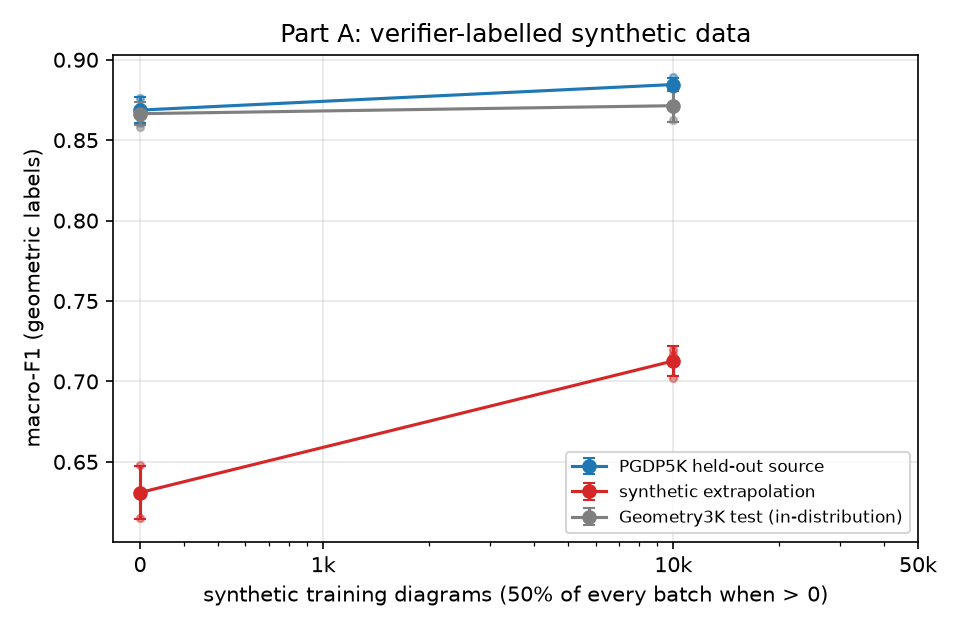
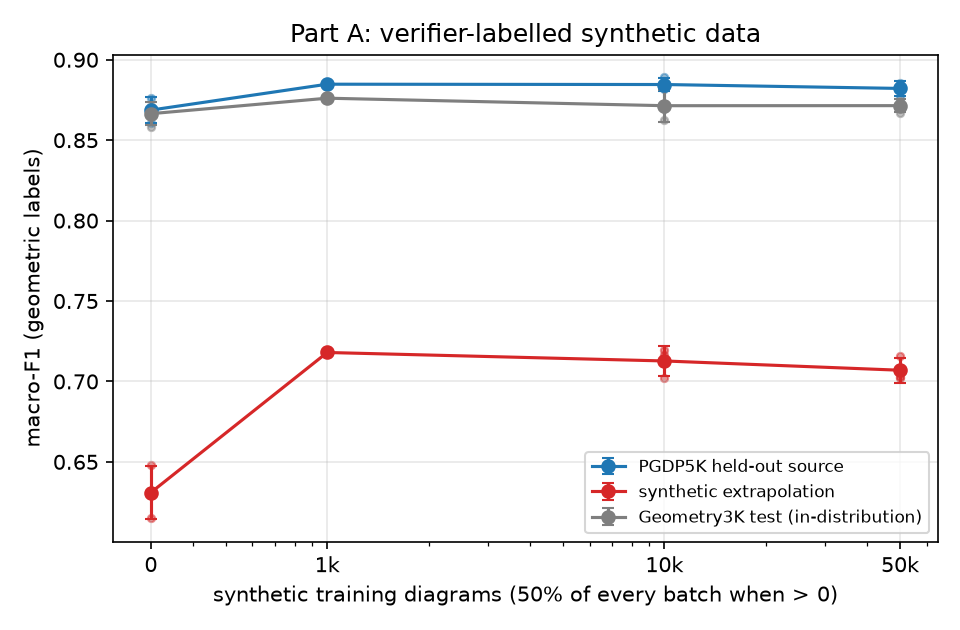
Phase 7 complete: Colab batch (13 runs) imported, all results tables and the scaling figure regenerated
- Part A: the synthetic gain is reached by 1k diagrams and flat to 50k
- 7.5 DINOv2-L above DINOv3-L by ~0.05 (one seed); 7.8 no overlay falls below the linear probe
- Part B: consistency filter raises pseudo-label precision 0.882 -> 0.898, but a no-pseudo-label
  control beats both students: the gain over the teacher is the extra training
- plan 7.4-7.12 ticked; COLAB_GUIDE.md corrected (queue log location, caffeinate -ims)

diff --git a/GEOMETRY_RELATIONS_PLAN.md b/GEOMETRY_RELATIONS_PLAN.md
@@ -222,24 +222,24 @@ Core (must):
 - [x] 7.1 Linear probe, 3 seeds, train on Geometry3K train only. *(Done 2026-10-12, lab: geometric macro-F1 geometry3k_test 0.595 ± 0.013, pgdp5k_heldout 0.517 ± 0.003.)*
 - [x] 7.2 Full fine-tune, 3 seeds, train on Geometry3K train only. *(Done 2026-10-12, lab, LP-FT 2 x 40k images: 0.867 ± 0.007 / 0.869 ± 0.008.)*
 - [x] 7.3 Full fine-tune, 3 seeds, train on Geometry3K train + synth_train 10k. *(Done 2026-10-12, lab: 0.871 ± 0.010 / 0.885 ± 0.004; synth_extrap 0.713 ± 0.009 vs 0.631 ± 0.017. Teacher for Part B: seed 2, best val.)*
-- [ ] 7.4 Evaluate every checkpoint on the three test sets plus the not-to-scale subset, against both label sets. *(Every run evaluates all units against both label sets at its end; `python -m analysis.phase7` adds the not-to-scale subset (7 diagrams, 353 queries, geometry3k_test + pgdp5k_heldout pooled) → `reports/tables/not_to_scale_eval.csv`, and the summary tables. Ticked when the Colab runs are in.)*
+- [x] 7.4 Evaluate every checkpoint on the three test sets plus the not-to-scale subset, against both label sets. *(Every run evaluates all units against both label sets at its end; `python -m analysis.phase7` adds the not-to-scale subset (7 diagrams, 353 queries, geometry3k_test + pgdp5k_heldout pooled) → `reports/tables/not_to_scale_eval.csv`, and the summary tables. Done 2026-10-13 for all 24 runs: `reports/tables/phase7_summary.md`. Not-to-scale geometric macro-F1 is close to the full test sets (fine-tune 0.859, + 10k synthetic 0.874), but 7 diagrams support no claim.)*
 
 Ablations (cheap, one seed each):
 
-- [ ] 7.5 Backbone: DINOv2-L vs DINOv3-L (same config).
+- [x] 7.5 Backbone: DINOv2-L vs DINOv3-L (same config). *(Done 2026-10-13, Colab, seed 0: DINOv2-L 0.913 / 0.920 / 0.754 (geometry3k_test / pgdp5k_heldout / synth_extrap) vs DINOv3-L 0.867 ± 0.007 / 0.869 ± 0.008 / 0.631 ± 0.017. DINOv2 is better by ~0.05 at this budget; one seed. Note DINOv2/14 sees 1,024 patch tokens at 448 px vs 784 for DINOv3/16.)*
 - [x] 7.6 Resolution: 224 vs 448. *(Done 2026-10-12, lab, seed 0.)*
 - [x] 7.7 No augmentation vs full augmentation. *(Done 2026-10-12, lab, seed 0.)*
-- [ ] 7.8 Highlight overlay vs no overlay (query given only as a text token index — expected to fail, which shows the overlay is doing the work). *(Implemented 2026-10-13: `configs/ablation_nooverlay.yaml`; the query is the kind plus the point names as hashed token indices (`data/query_tokens.py`), projected to one vector that cross-attends over the CLS and patch tokens (`models.head.QueryAttention`), concatenated with the pooled feature; same budget, no LP stage (it needs the query encoder). Runs on Colab.)*
+- [x] 7.8 Highlight overlay vs no overlay (query given only as a text token index — expected to fail, which shows the overlay is doing the work). *(Implemented 2026-10-13: `configs/ablation_nooverlay.yaml`; the query is the kind plus the point names as hashed token indices (`data/query_tokens.py`), projected to one vector that cross-attends over the CLS and patch tokens (`models.head.QueryAttention`), concatenated with the pooled feature; same budget, no LP stage (it needs the query encoder). Done 2026-10-13, Colab, seed 0: 0.431 / 0.429 / 0.137, below even the linear probe with the overlay (0.595 / 0.517 / 0.185): the overlay does the work.)*
 
 Part A — verifier as unlimited labeller (must):
 
-- [ ] 7.9 Fine-tune on Geometry3K train + synth_train at 0, 1k, 10k, 50k. Three seeds at 0 and 50k, one seed in between. Plot held-out-source and extrapolation macro-F1 against synthetic size (`reports/figures/scaling.png`).
+- [x] 7.9 Fine-tune on Geometry3K train + synth_train at 0, 1k, 10k, 50k. Three seeds at 0 and 50k, one seed in between. Plot held-out-source and extrapolation macro-F1 against synthetic size (`reports/figures/scaling.png`). *(Done 2026-10-13 (0, 10k: lab, 3 seeds each; 1k: 1 seed and 50k: 3 seeds on Colab). pgdp5k_heldout 0.869 → 0.885 (1k) → 0.885 (10k) → 0.882 (50k); synth_extrap 0.631 → 0.718 → 0.713 → 0.707; geometry3k_test flat (0.867-0.876). The gain is reached by 1k diagrams and does not grow with more, at a fixed budget of 80k images with 50% synthetic.)*
 
 Part B — self-training on real unlabelled scans (if Part A done):
 
 - [x] 7.10 `verifier/consistency.py`: given a predicted relation set for a diagram, compute the deductive closure with rules: parallel transitivity; perpendicular ∘ parallel → perpendicular; equal_length transitivity; two segments both perpendicular to a third are parallel; a segment cannot be both parallel and perpendicular to the same segment. Return the set of contradictions and the closure size. *(Done 2026-10-13: union-find over parallel classes of carrier lines (sub-segments of one line are one entity), perpendicular edges between classes, equal_length classes; contradiction C1 = a pair both parallel and perpendicular after closure. C2 = a derived fact that the model confidently predicted false (`selftrain.consistency_negatives`, on). Measured on a 150-diagram sample of the pool with the real teacher (τ 0.9): C1 alone flags 1/150 diagrams (removes 1% of the confident entries), too few for the two filters to differ; C1 + C2 flags 13/150, removes 16% of the entries, and the removed pseudo-positives have precision 0.74 against 0.92 for the kept ones (confidence filter alone 0.89). Caveat: tolerance-based relations are not exactly transitive, so C2 also fires on 10.4% of the pool diagrams with the verifier's own labels (C1 on 0%).)*
-- [ ] 7.11 `experiments/selftrain.py`: teacher = best 7.3 model. Pseudo-label the PGPS9K pool from §0.2 #9 (d) (coordinates and labels unused). Two filters: (a) confidence > τ; (b) confidence > τ **and** diagram-level relation set has zero contradictions after closure. Retrain student from the 7.3 checkpoint on Geometry3K + filtered pseudo-labels, one round, 3 seeds each. Evaluate on all test sets. Post-hoc: unseal PGPS9K coordinates and report pseudo-label precision under each filter (this is the evidence that the consistency filter removed wrong labels, or didn't). *(Implemented 2026-10-13: `experiments/selftrain.py`; teacher finetune_synth10k_s2; pool = PGPS9K pool figures outside the training split (2,037 diagrams, 66,019 queries at the evaluation cap); an entry is kept when max(p, 1-p) > 0.9 (others masked), consistency drops whole diagrams with a contradiction; student from the teacher's weights, 2 x 40k images, 50% Geometry3K / 50% pseudo-labelled; plus a control student with no pseudo-labels. Precision of both filters and of the removed entries in every student's metrics.json. Runs on Colab.)*
-- [ ] 7.12 Record every run in `runs/log.csv` with config hash, seed, best epoch, all test metrics.
+- [x] 7.11 `experiments/selftrain.py`: teacher = best 7.3 model. Pseudo-label the PGPS9K pool from §0.2 #9 (d) (coordinates and labels unused). Two filters: (a) confidence > τ; (b) confidence > τ **and** diagram-level relation set has zero contradictions after closure. Retrain student from the 7.3 checkpoint on Geometry3K + filtered pseudo-labels, one round, 3 seeds each. Evaluate on all test sets. Post-hoc: unseal PGPS9K coordinates and report pseudo-label precision under each filter (this is the evidence that the consistency filter removed wrong labels, or didn't). *(Implemented 2026-10-13: `experiments/selftrain.py`; teacher finetune_synth10k_s2; pool = PGPS9K pool figures outside the training split (2,037 diagrams, 66,019 queries at the evaluation cap); an entry is kept when max(p, 1-p) > 0.9 (others masked), consistency drops whole diagrams with a contradiction; student from the teacher's weights, 2 x 40k images, 50% Geometry3K / 50% pseudo-labelled; plus a control student with no pseudo-labels. Precision of both filters and of the removed entries in every student's metrics.json. Done 2026-10-13, Colab: the consistency filter flagged 162/2,037 pool diagrams and raised pseudo-positive precision from 0.882 to 0.898 (removed entries 0.798; equal_length is the weak relation, 0.71 kept, 0.64 removed); students geometry3k_test / pgdp5k_heldout / synth_extrap: confidence 0.886 ± 0.003 / 0.896 ± 0.003 / 0.737 ± 0.009, consistency 0.895 ± 0.010 / 0.903 ± 0.006 / 0.724 ± 0.010, teacher (s2) 0.882 / 0.889 / 0.716, **control (same continued training, no pseudo-labels, 1 seed) 0.909 / 0.919 / 0.741**: the students' gain over the teacher comes from the extra training, and the pseudo-labels (50% of every batch) cost ~0.015-0.02 against the control; consistency beats confidence on the real test sets by less than 1-2 sd.)*
+- [x] 7.12 Record every run in `runs/log.csv` with config hash, seed, best epoch, all test metrics. *(Done: 24 runs (11 lab, 13 Colab) merged into the local runs/log.csv; every run dir has config.yaml, metrics.json, history.jsonl and predictions for the four evaluation units.)*
 
 ---
 

diff --git a/reports/tables/phase7_summary.md b/reports/tables/phase7_summary.md
@@ -4,9 +4,16 @@
 |---|---|---|---|---|---|---|
 | probe | 7.1 linear probe | 3 | 0.600 ± 0.002 | 0.595 ± 0.013 | 0.517 ± 0.003 | 0.185 ± 0.013 |
 | finetune | 7.2 fine-tune (Part A: 0 synthetic) | 3 | 0.876 ± 0.008 | 0.867 ± 0.007 | 0.869 ± 0.008 | 0.631 ± 0.017 |
+| scaling_1k | 7.9 Part A: 1k synthetic | 1 | 0.871 | 0.876 | 0.885 | 0.718 |
 | finetune_synth10k | 7.3 fine-tune + 10k synthetic (Part A: 10k) | 3 | 0.872 ± 0.009 | 0.871 ± 0.010 | 0.885 ± 0.004 | 0.713 ± 0.009 |
+| scaling_50k | 7.9 Part A: 50k synthetic | 3 | 0.875 ± 0.004 | 0.872 ± 0.004 | 0.882 ± 0.005 | 0.707 ± 0.008 |
+| ablation_dinov2 | 7.5 DINOv2-L backbone | 1 | 0.923 | 0.913 | 0.920 | 0.754 |
 | ablation_res224 | 7.6 224 px | 1 | 0.865 | 0.855 | 0.861 | 0.609 |
 | ablation_noaug | 7.7 no augmentation | 1 | 0.890 | 0.868 | 0.870 | 0.632 |
+| ablation_nooverlay | 7.8 no overlay (query as tokens) | 1 | 0.450 | 0.431 | 0.429 | 0.137 |
+| selftrain_confidence | 7.11 (a) confidence filter | 3 | 0.903 ± 0.006 | 0.886 ± 0.003 | 0.896 ± 0.003 | 0.737 ± 0.009 |
+| selftrain_consistency | 7.11 (b) confidence + consistency filter | 3 | 0.907 ± 0.005 | 0.895 ± 0.010 | 0.903 ± 0.006 | 0.724 ± 0.010 |
+| selftrain_control | 7.11 control: no pseudo-labels | 1 | 0.929 | 0.909 | 0.919 | 0.741 |
 
 ### Macro-F1 against asserted labels (mean ± sd over seeds; threshold 0.5)
 
@@ -14,6 +21,13 @@
 |---|---|---|---|---|---|---|
 | probe | 7.1 linear probe | 3 | 0.472 ± 0.013 | 0.411 ± 0.012 | 0.359 ± 0.009 | 0.116 ± 0.010 |
 | finetune | 7.2 fine-tune (Part A: 0 synthetic) | 3 | 0.629 ± 0.005 | 0.543 ± 0.007 | 0.546 ± 0.010 | 0.385 ± 0.015 |
+| scaling_1k | 7.9 Part A: 1k synthetic | 1 | 0.629 | 0.544 | 0.552 | 0.433 |
 | finetune_synth10k | 7.3 fine-tune + 10k synthetic (Part A: 10k) | 3 | 0.626 ± 0.002 | 0.542 ± 0.003 | 0.547 ± 0.003 | 0.403 ± 0.005 |
+| scaling_50k | 7.9 Part A: 50k synthetic | 3 | 0.628 ± 0.005 | 0.538 ± 0.006 | 0.541 ± 0.006 | 0.402 ± 0.009 |
+| ablation_dinov2 | 7.5 DINOv2-L backbone | 1 | 0.643 | 0.554 | 0.567 | 0.441 |
 | ablation_res224 | 7.6 224 px | 1 | 0.624 | 0.527 | 0.535 | 0.382 |
 | ablation_noaug | 7.7 no augmentation | 1 | 0.635 | 0.550 | 0.558 | 0.441 |
+| ablation_nooverlay | 7.8 no overlay (query as tokens) | 1 | 0.342 | 0.281 | 0.263 | 0.072 |
+| selftrain_confidence | 7.11 (a) confidence filter | 3 | 0.637 ± 0.001 | 0.546 ± 0.004 | 0.552 ± 0.002 | 0.423 ± 0.008 |
+| selftrain_consistency | 7.11 (b) confidence + consistency filter | 3 | 0.638 ± 0.003 | 0.549 ± 0.003 | 0.555 ± 0.002 | 0.410 ± 0.008 |
+| selftrain_control | 7.11 control: no pseudo-labels | 1 | 0.646 | 0.558 | 0.567 | 0.418 |

diff --git a/CHANGELOG.md b/CHANGELOG.md
@@ -569,3 +569,29 @@ split; everything remaining on Colab)
   queue_phase7_part2.yaml), launcher cells for the teacher (unpacked from the lab archive on Drive,
   sha256-checked), the Phase 7 smoke gate and packing the results; `COLAB_GUIDE.md`.
 - Lab results imported into the local runs/ (gitignored) and runs/log.csv. Tests: 164 passed.
+
+## 2026-10-13 — Phase 7 complete (Colab batch: 13 runs, all ok)
+
+Found (geometric macro-F1, geometry3k_test / pgdp5k_heldout / synth_extrap; `reports/tables/phase7_summary.md`)
+- Colab A100: ~38-45 min per run (2x the lab's RTX 5000 Ada), 13 runs in ~8.5 h. The archive was
+  checked before import: status ok, two epochs, the expected backbone and exact prediction counts.
+- 7.9 Part A: 1k synthetic 0.876 / 0.885 / 0.718; 10k 0.871 / 0.885 / 0.713; 50k 0.872 ± 0.004 /
+  0.882 ± 0.005 / 0.707 ± 0.008 (0: 0.867 / 0.869 / 0.631). The held-out-source and extrapolation
+  gains are reached by 1k diagrams and flat after, at a fixed 80k-image budget with 50% synthetic.
+- 7.5 DINOv2-L (seed 0) 0.913 / 0.920 / 0.754, ~0.05 above DINOv3-L at the same recipe; one seed.
+- 7.8 no overlay (query as point-name tokens) 0.431 / 0.429 / 0.137: below the linear probe; the
+  highlight is what makes the task learnable.
+- 7.11 Part B (teacher finetune_synth10k_s2, 0.882 / 0.889 / 0.716): pool 2,037 diagrams; τ 0.9 keeps
+  18,252 pseudo-positives at precision 0.882 (equal_length 0.709, others 0.94-1.00); the consistency
+  filter flags 162 diagrams, kept precision 0.898, removed 0.798. Students: confidence 0.886 ± 0.003 /
+  0.896 ± 0.003 / 0.737 ± 0.009; consistency 0.895 ± 0.010 / 0.903 ± 0.006 / 0.724 ± 0.010; control
+  without pseudo-labels (seed 0) 0.909 / 0.919 / 0.741. The gain over the teacher is the extra
+  training; the pseudo-labels cost ~0.015-0.02 against the control (one control seed).
+- Not-to-scale subset (7 diagrams): no different from the full sets within its noise.
+
+Done
+- Colab runs imported into runs/ (finetune_s0-2 on Drive are failed Phase 6 attempts from
+  2026-10-10, not imported); `python -m analysis.phase7` regenerated every Phase 7 table and
+  reports/figures/scaling.png; plan 7.4, 7.5, 7.8, 7.9, 7.11, 7.12 ticked. COLAB_GUIDE.md corrected
+  (run progress is in /content/veridiagram/runs/queue_logs, not in the notebook cell; Colab's own
+  package conflict message is harmless; caffeinate without -d lets the screen sleep).

diff --git a/COLAB_GUIDE.md b/COLAB_GUIDE.md
@@ -27,8 +27,9 @@ every row of the results table still has a number.
 3. Open **Terminal** and run the line below; leave the window open. It keeps the Mac awake until
    you press Ctrl+C:
    ```bash
-   caffeinate -dims
+   caffeinate -ims
    ```
+   (`-ims` lets the screen turn off while the Mac stays awake; `-dims` would also keep the screen on.)
    (Running all night on the charger is fine for the Mac: the GPU work happens on Google's machine,
    and the laptop only keeps a browser tab open.)
 
@@ -46,7 +47,7 @@ every row of the results table still has a number.
 | `nvidia-smi` | shows `NVIDIA A100` |
 | Drive mount | allow access when asked |
 | clone / pull | the last line shows the newest commit (the one that added this guide) |
-| `pip install` | no red ERROR at the end (yellow warnings are fine) |
+| `pip install` | no failed install. A red "dependency conflicts" note about Colab's own packages (e.g. `google-adk` and `opentelemetry`) is harmless |
 | device info | `cuda`, A100 |
 | Data | `data version 1`, then sizes of about 3.1G and 355M (about 2 minutes; nothing is rebuilt) |
 | `models.backbone` | last line `facebook/dinov3-vitl16-pretrain-lvd1689m: OK` |
@@ -59,11 +60,14 @@ If any check differs, stop and send me the cell's output.
 ## 4. Start the queue
 
 In the **Full runs** cell change `RUN_FULL = False` to `RUN_FULL = True` and run it. It first prints
-`0 done, 13 pending of 13`, then starts the runs; each prints its progress (`epoch 1/2 ...`,
-`eval ...`) and the queue prints a line whenever a run finishes.
+`0 done, 13 pending of 13`, then one line when each run starts and one when it finishes. A run's own
+progress (`LP stage ...`, `epoch 1/2 ...` at the end of each epoch, `eval ...`) goes to its log on the
+VM's disk; to watch it, open Colab's **Terminal** (bottom left) and run
+`tail -f /content/veridiagram/runs/queue_logs/<run>.log` (Ctrl+C stops watching).
 
 Leave the tab open and the laptop awake. You can check progress from your phone in the Colab app
-or by looking at `MyDrive/geo-relations/runs/log.csv`.
+or by looking at `MyDrive/geo-relations/runs/log.csv` (one line per finished run; `status` must be `ok`:
+the queue's "done" only means the process ended).
 
 ## 5. If Colab disconnects
 
